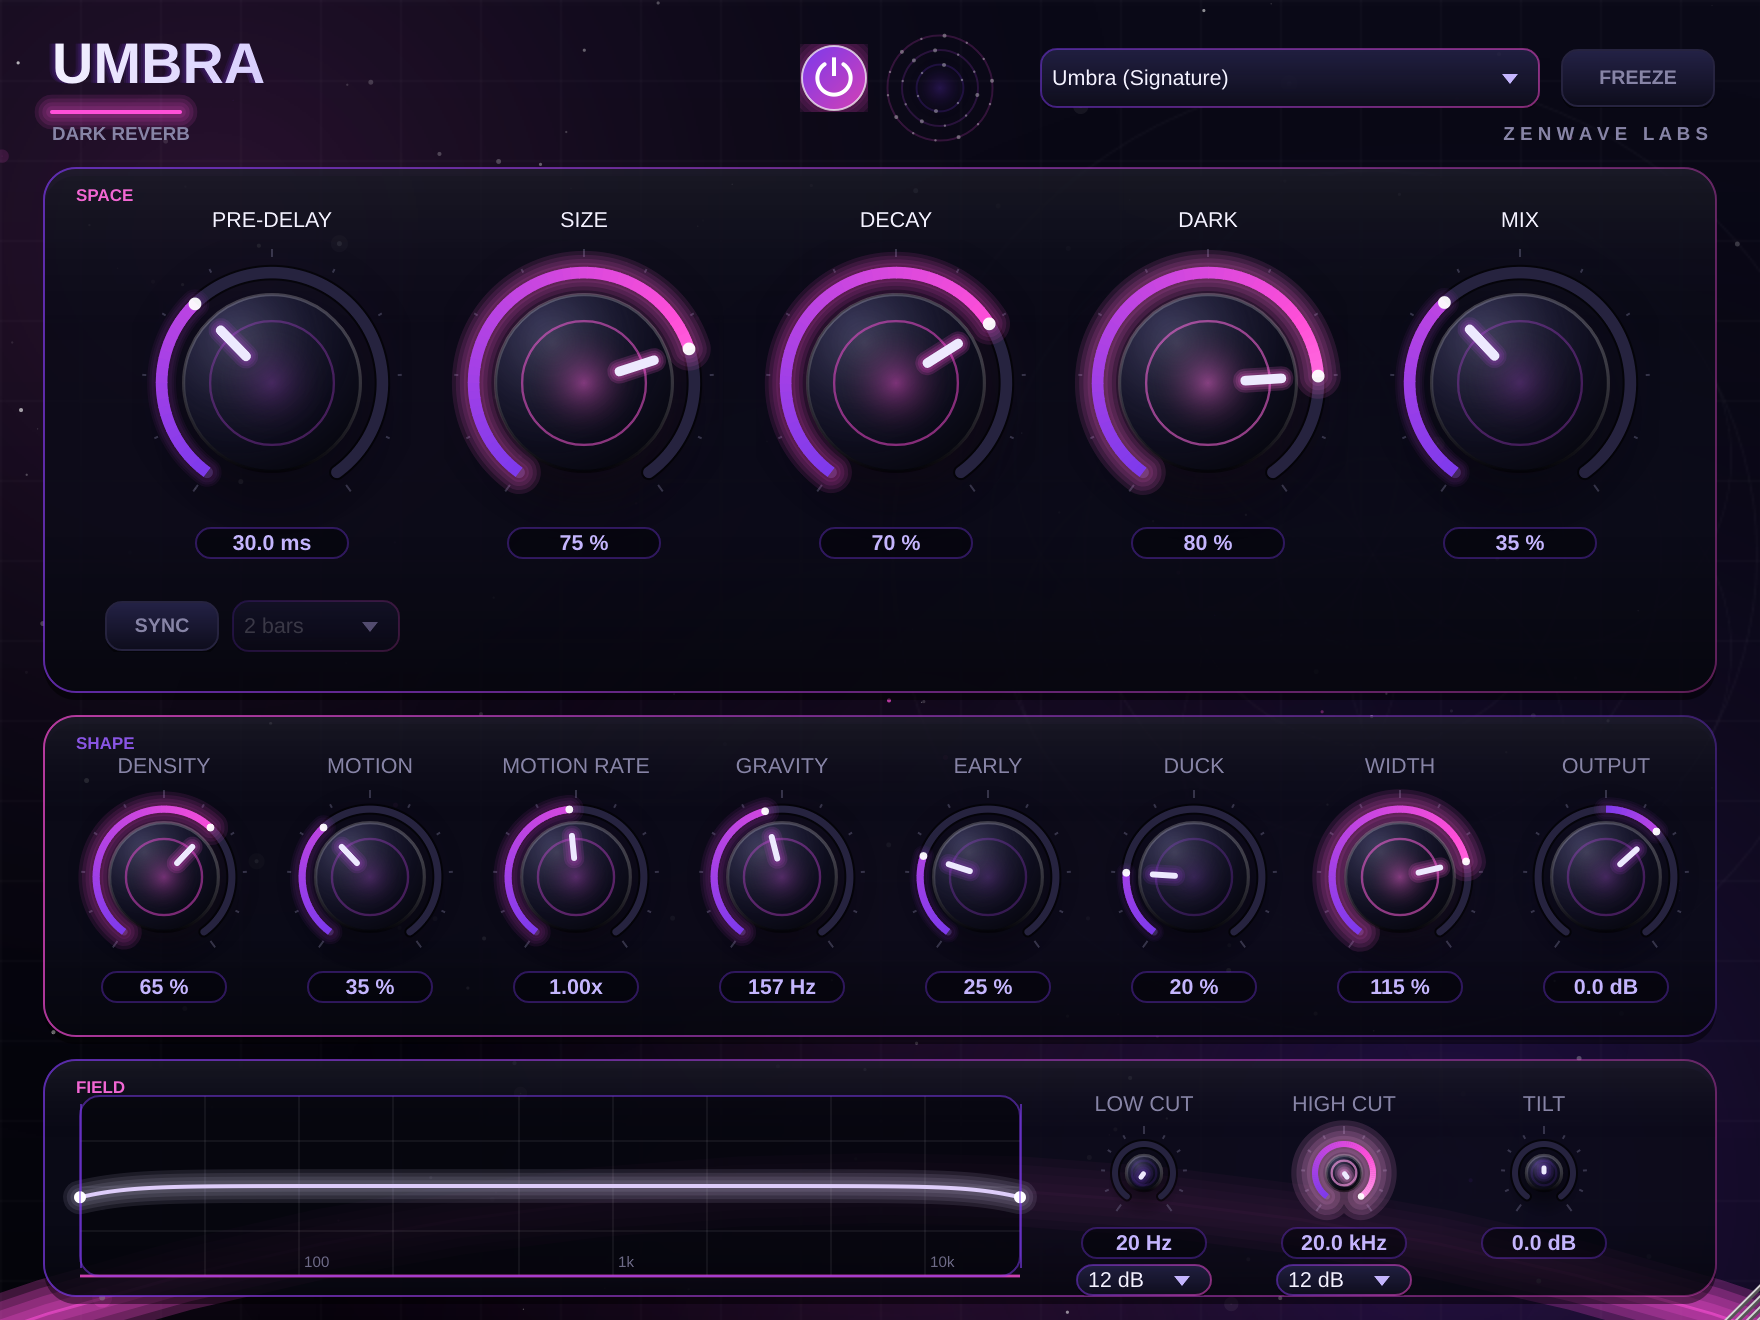
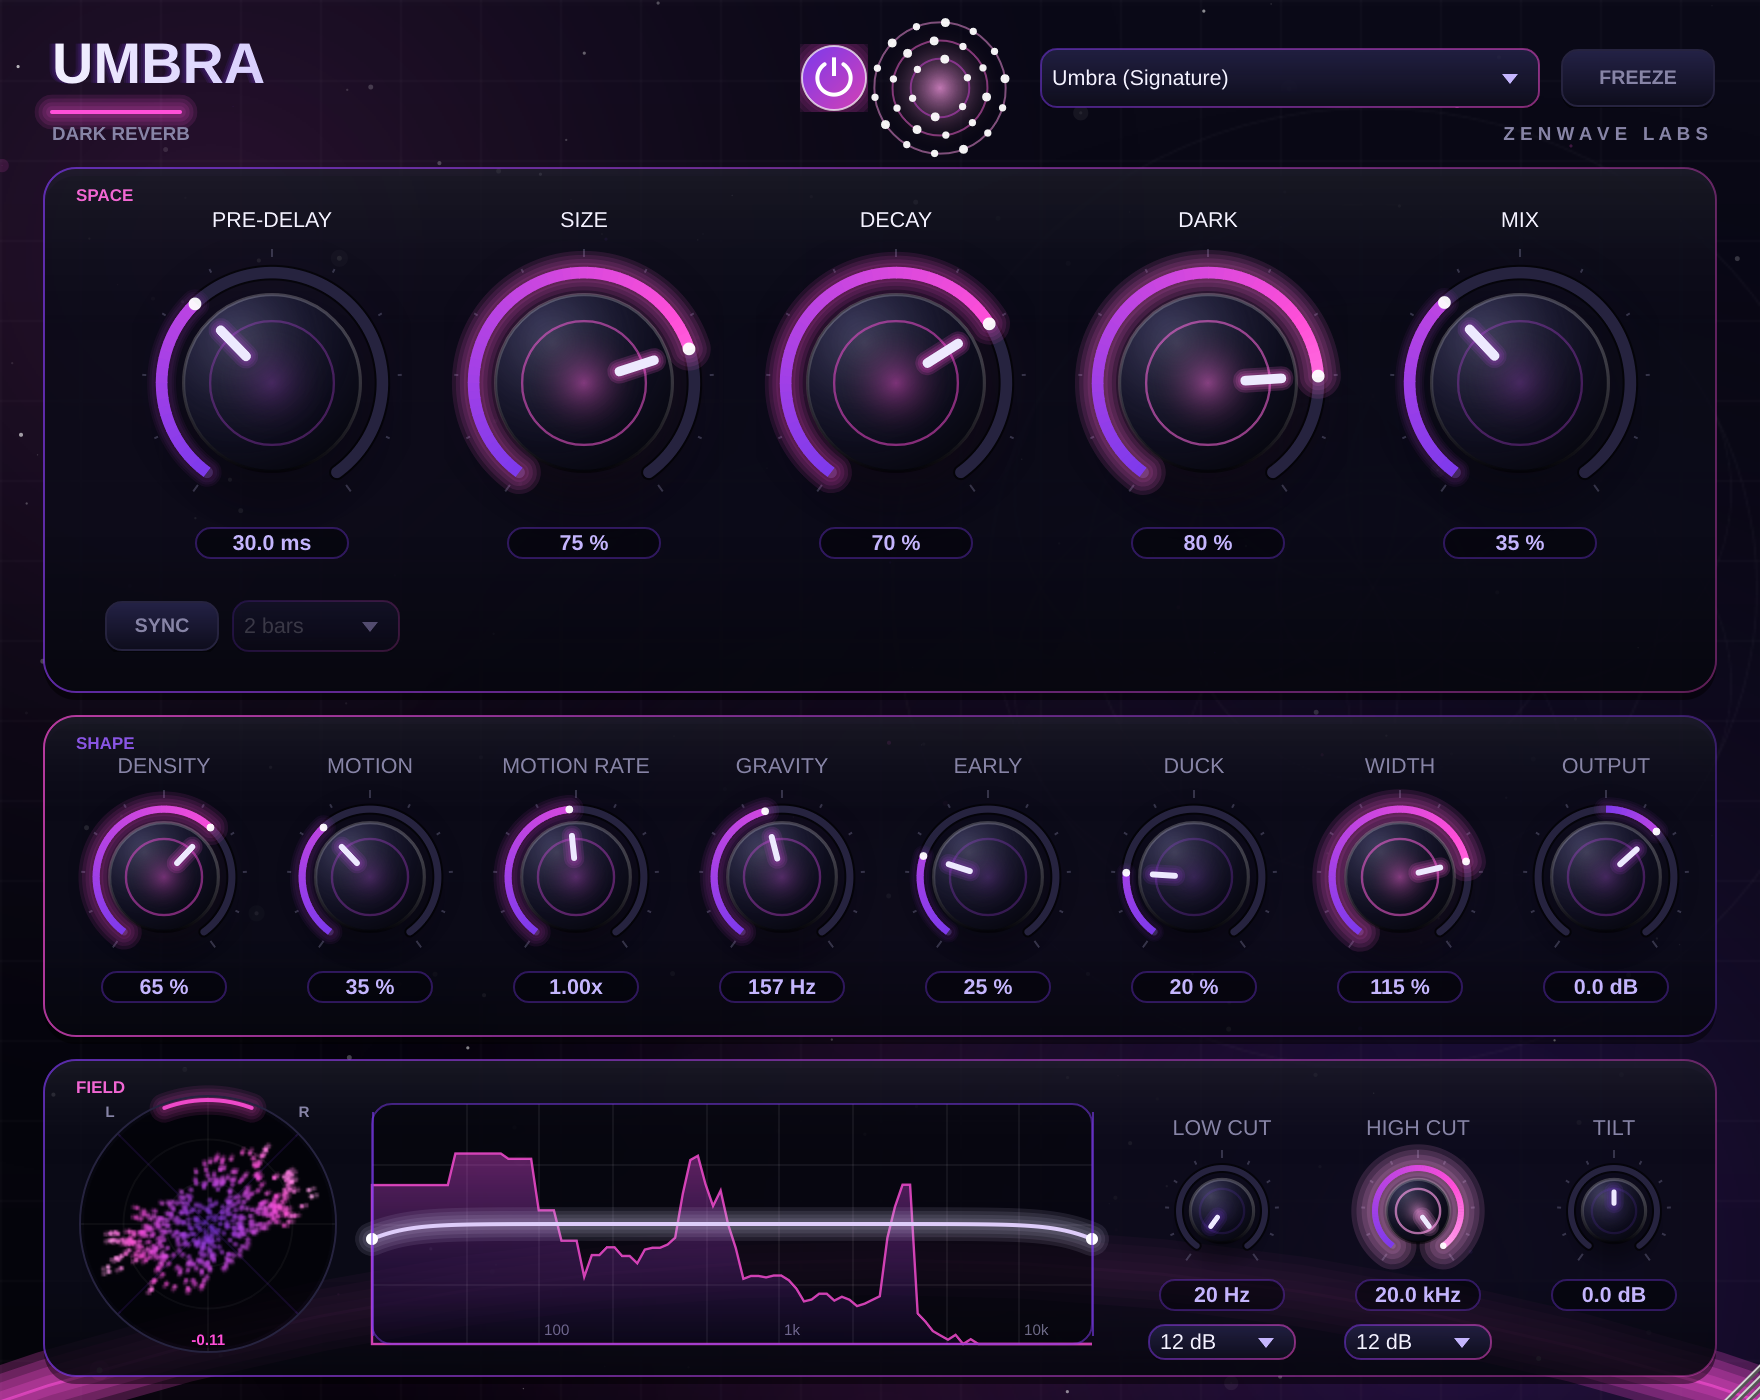
Galaxy stereo scope: persistence vectorscope with correlation ring; snapshot tool feeds audio
Claude-Session: https://claude.ai/code/session_017QkTniK1NEuAZXzt6zeDH9

diff --git a/libs/zenwave_ui/include/zenwave_ui/ZenWaveUI.h b/libs/zenwave_ui/include/zenwave_ui/ZenWaveUI.h
@@ -586,3 +586,100 @@ inline void drawEqField(juce::Graphics& g, juce::Rectangle<float> r, const Spect
 }
 
 } // namespace zwui
+
+namespace zwui {
+
+// Galaxy scope: a vectorscope with persistence. Mid = vertical axis, Side = horizontal.
+// Wide material blooms into a nebula; mono collapses to a beam. A correlation ring
+// around the outside turns from accent2 (in phase) to magenta (out of phase).
+class GalaxyScope
+{
+public:
+    template <class Tap> void update(const Tap& tap)
+    {
+        tap.snapshot(L.data(), R.data());
+        double sLR = 0, sLL = 0, sRR = 0;
+        for (int i = 0; i < Tap::kPairs; ++i) { sLR += L[size_t(i)] * R[size_t(i)]; sLL += L[size_t(i)] * L[size_t(i)]; sRR += R[size_t(i)] * R[size_t(i)]; }
+        const double den = std::sqrt(sLL * sRR) + 1e-9;
+        const float corrNow = float(sLR / den);
+        correlation += (corrNow - correlation) * 0.15f;
+        level = float(std::sqrt((sLL + sRR) / (2.0 * Tap::kPairs)));
+    }
+
+    void draw(juce::Graphics& g, juce::Rectangle<float> r, juce::Colour accent, juce::Colour accent2, float pulse)
+    {
+        const int w = int(r.getWidth()), h = int(r.getHeight());
+        if (w < 8 || h < 8) return;
+        if (persist.getWidth() != w || persist.getHeight() != h)
+            persist = juce::Image(juce::Image::ARGB, w, h, true);
+
+        // fade the persistence layer
+        {
+            juce::Graphics pg(persist);
+            pg.setColour(juce::Colours::black.withAlpha(0.22f));
+            pg.fillAll();   // ARGB with black alpha → darkens, keeps glow trails
+            // draw new points
+            const auto c = juce::Point<float>(w * 0.5f, h * 0.5f);
+            const float scale = juce::jmin(w, h) * 0.42f;
+            const float gain = level > 1e-4f ? juce::jlimit(1.0f, 6.0f, 0.35f / level) : 1.0f;  // auto-gain so quiet material still shows
+            for (int i = 0; i < 1024; i += 2)
+            {
+                const float l = L[size_t(i)] * gain, rr = R[size_t(i)] * gain;
+                const float mid = (l + rr) * 0.7071f, side = (l - rr) * 0.7071f;
+                const float x = c.x + juce::jlimit(-1.0f, 1.0f, side) * scale;
+                const float y = c.y - juce::jlimit(-1.0f, 1.0f, mid) * scale;
+                const float e = juce::jlimit(0.0f, 1.0f, std::sqrt(l * l + rr * rr));
+                pg.setColour(aurora(e, accent, accent2).withAlpha(0.35f + 0.5f * e));
+                pg.fillEllipse(x - 1.2f, y - 1.2f, 2.4f, 2.4f);
+                if ((i & 6) == 0) { pg.setColour(juce::Colours::white.withAlpha(0.25f * e)); pg.fillEllipse(x - 0.6f, y - 0.6f, 1.2f, 1.2f); }
+            }
+        }
+
+        // backdrop rings + axes
+        const auto c = r.getCentre();
+        const float R0 = juce::jmin(r.getWidth(), r.getHeight()) * 0.5f;
+        g.setColour(Palette::bg.withAlpha(0.6f));
+        g.fillEllipse(c.x - R0, c.y - R0, R0 * 2, R0 * 2);
+        g.setColour(juce::Colours::white.withAlpha(0.06f));
+        for (float k : { 0.33f, 0.66f }) g.drawEllipse(c.x - R0 * k, c.y - R0 * k, R0 * 2 * k, R0 * 2 * k, 1.0f);
+        g.drawLine(c.x - R0, c.y, c.x + R0, c.y, 1.0f);
+        g.drawLine(c.x, c.y - R0, c.x, c.y + R0, 1.0f);
+        // L / R diagonals
+        g.setColour(accent.withAlpha(0.18f));
+        g.drawLine(c.x - R0 * 0.707f, c.y - R0 * 0.707f, c.x + R0 * 0.707f, c.y + R0 * 0.707f, 1.0f);
+        g.drawLine(c.x + R0 * 0.707f, c.y - R0 * 0.707f, c.x - R0 * 0.707f, c.y + R0 * 0.707f, 1.0f);
+
+        // persistence image, clipped to the circle, with a soft glow pass
+        {
+            juce::Graphics::ScopedSaveState ss(g);
+            juce::Path clip; clip.addEllipse(c.x - R0 + 2, c.y - R0 + 2, R0 * 2 - 4, R0 * 2 - 4);
+            g.reduceClipRegion(clip);
+            g.setOpacity(0.55f);
+            g.drawImage(persist, r.expanded(3.0f), juce::RectanglePlacement::stretchToFit);  // slightly enlarged = glow
+            g.setOpacity(1.0f);
+            g.drawImageAt(persist, int(r.getX()), int(r.getY()));
+        }
+
+        // correlation ring: arc from top, length = |corr|, colour by sign
+        const float corr = juce::jlimit(-1.0f, 1.0f, correlation);
+        juce::Path ring; ring.addCentredArc(c.x, c.y, R0 - 2.0f, R0 - 2.0f, 0.0f, -juce::MathConstants<float>::pi * std::abs(corr), juce::MathConstants<float>::pi * std::abs(corr), true);
+        const auto ringCol = corr >= 0 ? accent2 : Palette::magenta;
+        glowStroke(g, ring, ringCol.withAlpha(0.9f), 2.0f, 0.8f + pulse * 0.6f);
+        g.setColour(Palette::cardEdge);
+        g.drawEllipse(c.x - R0, c.y - R0, R0 * 2, R0 * 2, 1.0f);
+
+        g.setFont(juce::Font(juce::FontOptions(8.5f, juce::Font::bold)));
+        g.setColour(Palette::dim);
+        g.drawText("L", int(c.x - R0 * 0.85f), int(c.y - R0 * 0.95f), 12, 10, juce::Justification::centred);
+        g.drawText("R", int(c.x + R0 * 0.85f) - 12, int(c.y - R0 * 0.95f), 12, 10, juce::Justification::centred);
+        g.setColour(ringCol);
+        g.drawText(juce::String(corr, 2), r.toNearestInt().removeFromBottom(12), juce::Justification::centred);
+    }
+
+private:
+    std::array<float, 1024> L {}, R {};
+    juce::Image persist;
+    float correlation = 1.0f, level = 0.0f;
+};
+
+} // namespace zwui

diff --git a/plugins/drift/src/PluginEditor.cpp b/plugins/drift/src/PluginEditor.cpp
@@ -45,9 +45,9 @@ DriftAudioProcessorEditor::DriftAudioProcessorEditor(DriftAudioProcessor& p)
     };
 
     setResizable(true, true);
-    setResizeLimits(704, 528, 1408, 1056);
-    getConstrainer()->setFixedAspectRatio(880.0 / 660.0);
-    setSize(880, 660);
+    setResizeLimits(704, 560, 1408, 1120);
+    getConstrainer()->setFixedAspectRatio(880.0 / 700.0);
+    setSize(880, 700);
     lastTick = juce::Time::getMillisecondCounterHiRes();
     startTimerHz(30);
 }
@@ -76,6 +76,7 @@ void DriftAudioProcessorEditor::timerCallback()
     stage.tick(processor.motion, dt);
     lnf.pulse = processor.motion.pulse;
     analyser.update(processor.spectrum, processor.currentSampleRate);
+    scope.update(processor.stereo);
 
     if (processor.getCurrentProgram() != lastPreset)
     {
@@ -103,10 +104,11 @@ void DriftAudioProcessorEditor::paint(juce::Graphics& g)
     zwui::drawHeader(g, r, s, "DRIFT", "LO-FI SPACE ECHO", lnf.accent, lnf.accentHi, lnf.accent2);
     zwui::drawCard(g, juce::Rectangle<float>(22 * s, 84 * s, 836 * s, 262 * s), "ECHO", lnf.accent, lnf.accent2, s);
     zwui::drawCard(g, juce::Rectangle<float>(22 * s, 358 * s, 836 * s, 160 * s), "DEEP SPACE", lnf.accent2, lnf.accent, s);
-    zwui::drawCard(g, juce::Rectangle<float>(22 * s, 530 * s, 836 * s, 118 * s), "FIELD", lnf.accent, lnf.accent2, s);
+    zwui::drawCard(g, juce::Rectangle<float>(22 * s, 530 * s, 836 * s, 158 * s), "FIELD", lnf.accent, lnf.accent2, s);
+    scope.draw(g, juce::Rectangle<float>(40 * s, 548 * s, 128 * s, 128 * s), lnf.accent, lnf.accent2, processor.motion.pulse);
     zwui::EqCurve eq { lowCut.slider.getValue() > 0 ? float(lowCut.slider.getValue()) : 20.0f, float(highCut.slider.getValue()),
                        juce::jmax(0, lowSlopeBox.getSelectedId() - 1), juce::jmax(0, highSlopeBox.getSelectedId() - 1), float(tilt.slider.getValue()) };
-    zwui::drawEqField(g, juce::Rectangle<float>(40 * s, 548 * s, 470 * s, 90 * s), analyser, eq, lnf.accent, lnf.accent2, processor.motion.pulse);
+    zwui::drawEqField(g, juce::Rectangle<float>(186 * s, 552 * s, 360 * s, 120 * s), analyser, eq, lnf.accent, lnf.accent2, processor.motion.pulse);
     zwui::drawOrbit(g, { 470 * s, 44 * s }, 26 * s, processor.motion, lnf.accent, lnf.accent2);
 }
 
@@ -136,8 +138,8 @@ void DriftAudioProcessorEditor::resized()
 
     // Tone: field display on the left, cuts + tilt on the right
     zwui::Knob* tone[] = { &lowCut, &highCut, &tilt };
-    x = S(530);
-    for (auto* k : tone) { k->layout(x, S(560), S(84), S(70), S(12)); x += S(100); }
-    lowSlopeBox.setBounds(S(538), S(632), S(68), S(16));
-    highSlopeBox.setBounds(S(638), S(632), S(68), S(16));
+    x = S(566);
+    for (auto* k : tone) { k->layout(x, S(572), S(90), S(84), S(12)); x += S(98); }
+    lowSlopeBox.setBounds(S(574), S(662), S(74), S(18));
+    highSlopeBox.setBounds(S(672), S(662), S(74), S(18));
 }

diff --git a/plugins/umbra/src/PluginEditor.cpp b/plugins/umbra/src/PluginEditor.cpp
@@ -43,9 +43,9 @@ UmbraAudioProcessorEditor::UmbraAudioProcessorEditor(UmbraAudioProcessor& p)
     };
 
     setResizable(true, true);
-    setResizeLimits(704, 528, 1408, 1056);
-    getConstrainer()->setFixedAspectRatio(880.0 / 660.0);
-    setSize(880, 660);
+    setResizeLimits(704, 560, 1408, 1120);
+    getConstrainer()->setFixedAspectRatio(880.0 / 700.0);
+    setSize(880, 700);
     lastTick = juce::Time::getMillisecondCounterHiRes();
     startTimerHz(30);
 }
@@ -74,6 +74,7 @@ void UmbraAudioProcessorEditor::timerCallback()
     stage.tick(processor.motion, dt);
     lnf.pulse = processor.motion.pulse;
     analyser.update(processor.spectrum, processor.currentSampleRate);
+    scope.update(processor.stereo);
 
     if (processor.getCurrentProgram() != lastPreset)
     {
@@ -97,10 +98,11 @@ void UmbraAudioProcessorEditor::paint(juce::Graphics& g)
     zwui::drawHeader(g, r, s, "UMBRA", "DARK REVERB", lnf.accent, lnf.accentHi, lnf.accent2);
     zwui::drawCard(g, juce::Rectangle<float>(22 * s, 84 * s, 836 * s, 262 * s), "SPACE", lnf.accent, lnf.accent2, s);
     zwui::drawCard(g, juce::Rectangle<float>(22 * s, 358 * s, 836 * s, 160 * s), "SHAPE", lnf.accent2, lnf.accent, s);
-    zwui::drawCard(g, juce::Rectangle<float>(22 * s, 530 * s, 836 * s, 118 * s), "FIELD", lnf.accent, lnf.accent2, s);
+    zwui::drawCard(g, juce::Rectangle<float>(22 * s, 530 * s, 836 * s, 158 * s), "FIELD", lnf.accent, lnf.accent2, s);
+    scope.draw(g, juce::Rectangle<float>(40 * s, 548 * s, 128 * s, 128 * s), lnf.accent, lnf.accent2, processor.motion.pulse);
     zwui::EqCurve eq { float(lowCut.slider.getValue()), float(highCut.slider.getValue()),
                        juce::jmax(0, lowSlopeBox.getSelectedId() - 1), juce::jmax(0, highSlopeBox.getSelectedId() - 1), float(tilt.slider.getValue()) };
-    zwui::drawEqField(g, juce::Rectangle<float>(40 * s, 548 * s, 470 * s, 90 * s), analyser, eq, lnf.accent, lnf.accent2, processor.motion.pulse);
+    zwui::drawEqField(g, juce::Rectangle<float>(186 * s, 552 * s, 360 * s, 120 * s), analyser, eq, lnf.accent, lnf.accent2, processor.motion.pulse);
     zwui::drawOrbit(g, { 470 * s, 44 * s }, 26 * s, processor.motion, lnf.accent, lnf.accent2);
 }
 
@@ -125,8 +127,8 @@ void UmbraAudioProcessorEditor::resized()
     for (auto* k : smalls) { k->layout(x, S(392), S(96), S(110), S(14)); x += S(103); }
 
     zwui::Knob* tone[] = { &lowCut, &highCut, &tilt };
-    x = S(530);
-    for (auto* k : tone) { k->layout(x, S(560), S(84), S(70), S(12)); x += S(100); }
-    lowSlopeBox.setBounds(S(538), S(632), S(68), S(16));
-    highSlopeBox.setBounds(S(638), S(632), S(68), S(16));
+    x = S(566);
+    for (auto* k : tone) { k->layout(x, S(572), S(90), S(84), S(12)); x += S(98); }
+    lowSlopeBox.setBounds(S(574), S(662), S(74), S(18));
+    highSlopeBox.setBounds(S(672), S(662), S(74), S(18));
 }

diff --git a/tools/snapshot/snapshot.cpp b/tools/snapshot/snapshot.cpp
@@ -6,6 +6,23 @@ int main(int argc, char** argv)
     std::unique_ptr<juce::AudioProcessor> proc(createPluginFilter());
     proc->prepareToPlay(48000.0, 512);
     if (argc > 2) proc->setCurrentProgram(atoi(argv[2]));
+    // Run some stereo audio through so the visualisers have content
+    {
+        juce::AudioBuffer<float> b(2, 512); juce::MidiBuffer mb; double ph = 0;
+        for (int blk = 0; blk < 60; ++blk)
+        {
+            for (int i = 0; i < 512; ++i)
+            {
+                const double t = (blk * 512 + i) / 48000.0;
+                const float env = float(std::exp(-std::fmod(t, 0.43) * 6.0));
+                const float bass = std::sin(float(2 * M_PI * 55.0 * t)) * env * 0.6f;
+                const float pad  = 0.25f * (std::sin(float(2 * M_PI * 440.0 * t)) + std::sin(float(2 * M_PI * 554.4 * t + 0.4)));
+                b.setSample(0, i, bass + pad * 0.9f + 0.1f * std::sin(float(2 * M_PI * 3300.0 * t)));
+                b.setSample(1, i, bass + pad * 0.6f * std::cos(float(2 * M_PI * 0.7 * t)) + 0.1f * std::sin(float(2 * M_PI * 2900.0 * t + 1.0)));
+            }
+            proc->processBlock(b, mb);
+        }
+    }
     std::unique_ptr<juce::AudioProcessorEditor> ed(proc->createEditor());
     ed->setVisible(true);
     for (int i = 0; i < 30; ++i) { juce::MessageManager::getInstance()->runDispatchLoopUntil(10); }

diff --git a/libs/zenwave_ui/include/zenwave_ui/ProcessorHelpers.h b/libs/zenwave_ui/include/zenwave_ui/ProcessorHelpers.h
@@ -132,3 +132,32 @@ private:
 };
 
 } // namespace zwui
+
+namespace zwui {
+
+// Stereo tap for the galaxy scope: interleaved L/R pairs.
+class StereoTap
+{
+public:
+    static constexpr int kPairs = 1024;
+    void push(const juce::AudioBuffer<float>& b)
+    {
+        if (b.getNumChannels() < 1) return;
+        const int n = b.getNumSamples();
+        const float* l = b.getReadPointer(0);
+        const float* r = b.getNumChannels() > 1 ? b.getReadPointer(1) : l;
+        int w = writePos.load(std::memory_order_relaxed);
+        for (int i = 0; i < n; ++i) { L[size_t(w)] = l[i]; R[size_t(w)] = r[i]; w = (w + 1) & (kPairs - 1); }
+        writePos.store(w, std::memory_order_release);
+    }
+    void snapshot(float* outL, float* outR) const
+    {
+        const int w = writePos.load(std::memory_order_acquire);
+        for (int i = 0; i < kPairs; ++i) { const size_t k = size_t((w + i) & (kPairs - 1)); outL[i] = L[k]; outR[i] = R[k]; }
+    }
+private:
+    std::array<float, kPairs> L {}, R {};
+    std::atomic<int> writePos { 0 };
+};
+
+} // namespace zwui

diff --git a/plugins/drift/src/PluginEditor.h b/plugins/drift/src/PluginEditor.h
@@ -26,6 +26,7 @@ private:
     juce::ComboBox lowSlopeBox, highSlopeBox;
     std::unique_ptr<juce::AudioProcessorValueTreeState::ComboBoxAttachment> lowSlopeAttach, highSlopeAttach;
     zwui::SpectrumAnalyser analyser;
+    zwui::GalaxyScope scope;
 
     juce::ToggleButton syncButton { "SYNC" }, pingPongButton { "PING-PONG" }, freezeButton { "FREEZE" },
                        wobbleSyncButton { "SYNC" }, powerButton;

diff --git a/plugins/umbra/src/PluginEditor.h b/plugins/umbra/src/PluginEditor.h
@@ -27,6 +27,7 @@ private:
     juce::ComboBox lowSlopeBox, highSlopeBox;
     std::unique_ptr<juce::AudioProcessorValueTreeState::ComboBoxAttachment> lowSlopeAttach, highSlopeAttach;
     zwui::SpectrumAnalyser analyser;
+    zwui::GalaxyScope scope;
 
     juce::ToggleButton freezeButton { "FREEZE" }, motionSyncButton { "SYNC" }, powerButton;
     juce::ComboBox presetBox, motionDivBox;

diff --git a/plugins/drift/src/PluginProcessor.cpp b/plugins/drift/src/PluginProcessor.cpp
@@ -176,6 +176,7 @@ void DriftAudioProcessor::processBlock(juce::AudioBuffer<float>& buffer, juce::M
     power.end(buffer);
     meterOut.push(buffer, motion.levelOut);
     spectrum.push(buffer);
+    stereo.push(buffer);
 }
 
 void DriftAudioProcessor::setCurrentProgram(int index)

diff --git a/plugins/umbra/src/PluginProcessor.cpp b/plugins/umbra/src/PluginProcessor.cpp
@@ -123,6 +123,7 @@ void UmbraAudioProcessor::processBlock(juce::AudioBuffer<float>& buffer, juce::M
     power.end(buffer);
     meterOut.push(buffer, motion.levelOut);
     spectrum.push(buffer);
+    stereo.push(buffer);
 }
 
 void UmbraAudioProcessor::setCurrentProgram(int index)

diff --git a/plugins/drift/src/PluginProcessor.h b/plugins/drift/src/PluginProcessor.h
@@ -64,6 +64,7 @@ public:
     juce::AudioProcessorValueTreeState apvts;
     zwui::Motion motion;
     zwui::SpectrumTap spectrum;
+    zwui::StereoTap stereo;
     double currentSampleRate = 48000.0;
 
 private:

diff --git a/plugins/umbra/src/PluginProcessor.h b/plugins/umbra/src/PluginProcessor.h
@@ -62,6 +62,7 @@ public:
     juce::AudioProcessorValueTreeState apvts;
     zwui::Motion motion;
     zwui::SpectrumTap spectrum;
+    zwui::StereoTap stereo;
     double currentSampleRate = 48000.0;
 
 private:
